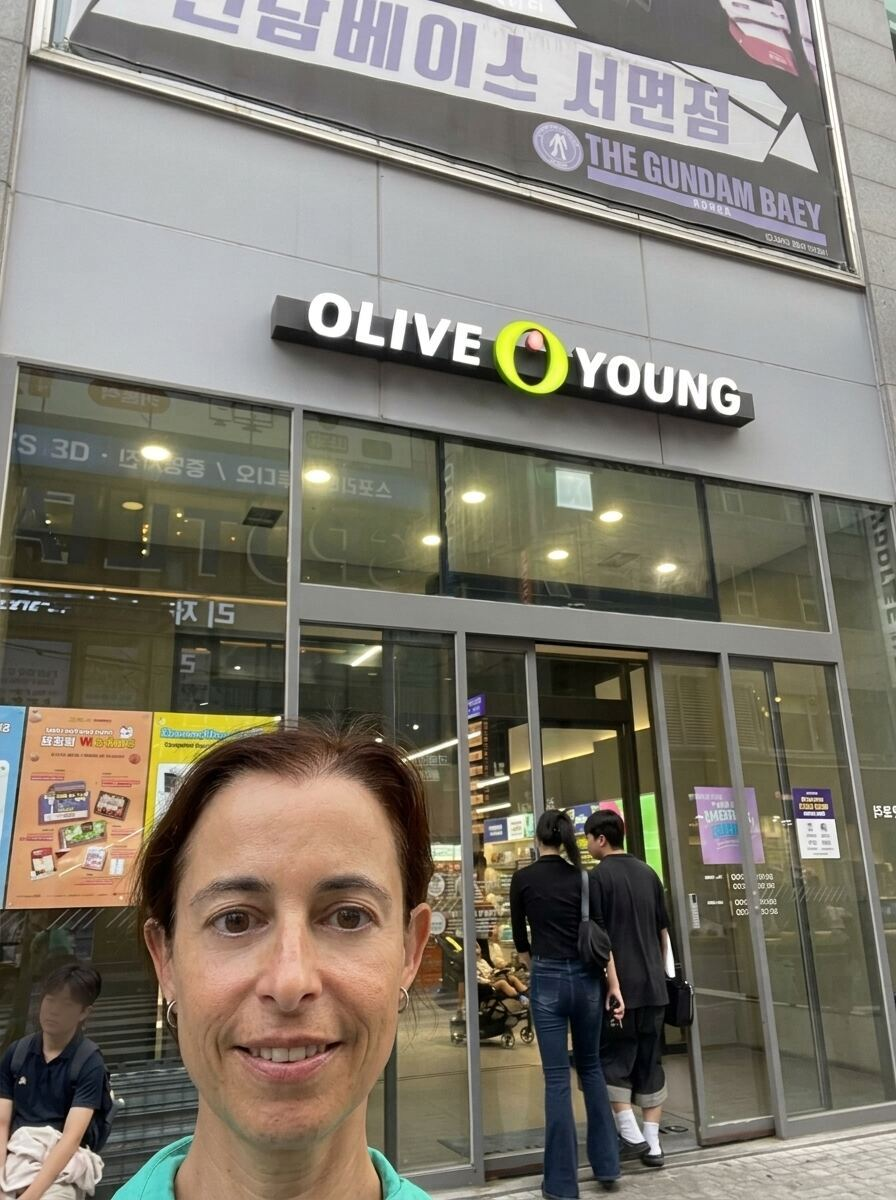
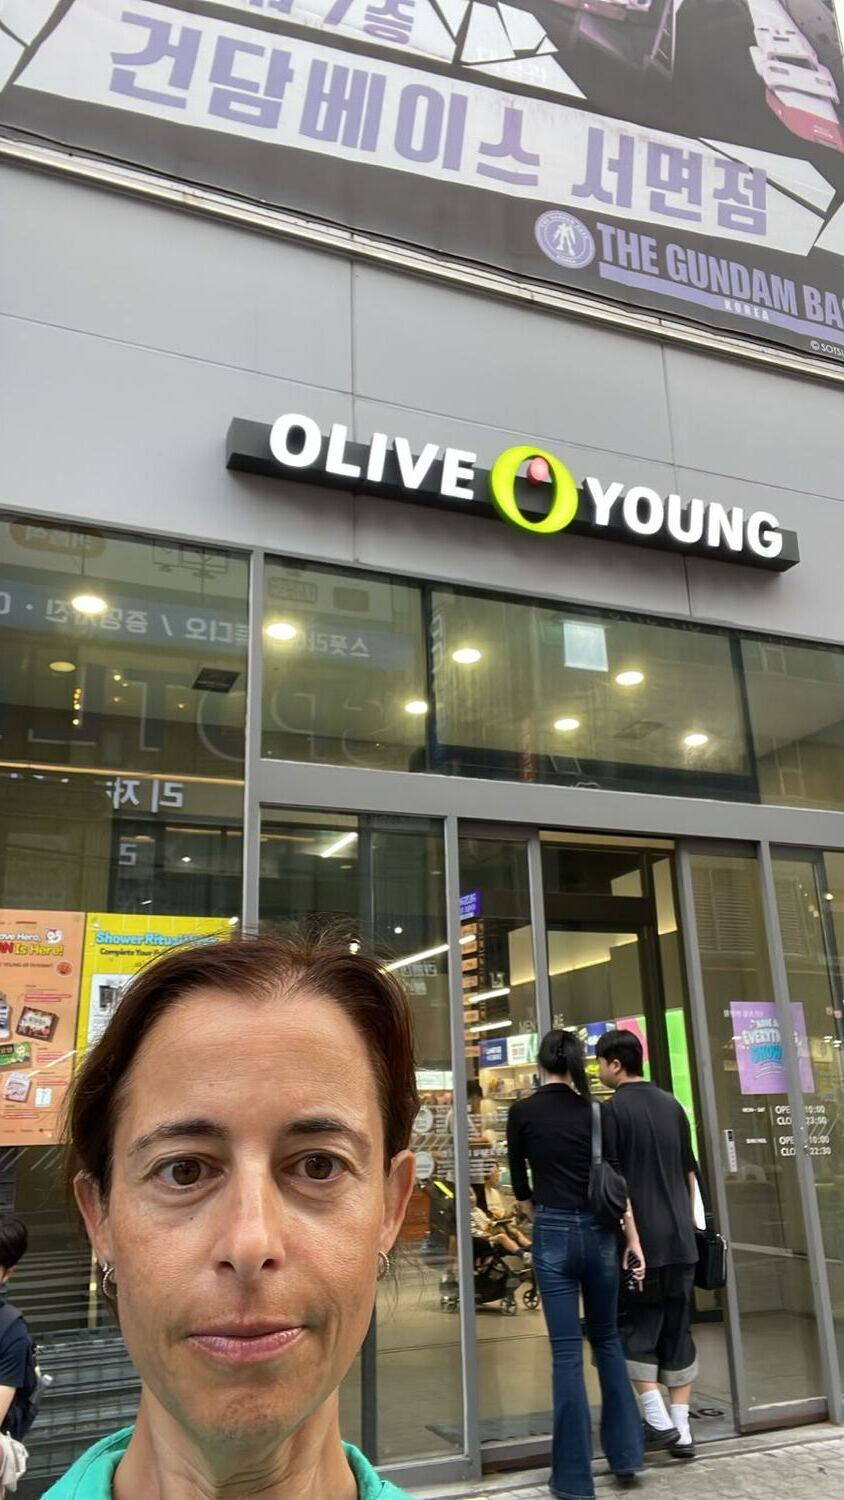
Día 9 completo, cabina por cabina en el día 10 y tres correcciones
El día 9 pasa de 4 a 15 fotos y de «seis cabinas» a siete: a las 10:35 se
sella en 광나루자전거공원, todavía en Seúl, y no estaba en la tabla ni en el
título. Entran Mapo, el carril del Han, el sello del 광나루, 팔당댐 verificada
contra OpenStreetMap, el túnel de ferrocarril, el puente de tablas, el 쉼터 y
su panel de los cuatro ríos, un autorretrato y la cena de Yeoju entera.

Del día 10, una foto por cabina como se pidió: el sello de 강천보 de cerca y
la cabina de 충주탄금대.

Correcciones: la foto de la Olive Young del día 21 era un montaje y se cambia
por la original; el día 18 presumía de unos tubos de cobre que ya salen en los
días 8 y 9; y el día 13 gana la vuelta en solitario a Gumi a por el libro
electrónico, con el hueco de 3 h 39 min medido en el EXIF.

Privacidad (blog.RQ005): mosaico en bloque sobre los ocho teléfonos del panel
del día 9. El autorretrato y la pared de precios se publican diciendo lo que
no se puede verificar en vez de rellenarlo.

diff --git a/CHANGELOG.md b/CHANGELOG.md
@@ -9,11 +9,12 @@ and this project adheres to [Semantic Versioning](https://semver.org/spec/v2.0.0
 
 ### Added
 
-- **Cuarta tanda de fotos** (`blog.RQ010`), **41 más**, para engordar los días
+- **Cuarta tanda de fotos** (`blog.RQ010`), **55 más**, para engordar los días
   que se habían quedado con dos o tres: el día 6 (Suwon y la Torre N) sube de
-  3 a 14, el día 8 (de Seúl al kilómetro 0) de 3 a 12, el día 10 (Yeoju →
+  3 a 14, el día 8 (de Seúl al kilómetro 0) de 3 a 12, el día 9 (del Han a
+  Yeoju) de 4 a 15, el día 10 (Yeoju →
   Chungju) de 2
-  a 8, el día 11 (el puerto de Ihwaryeong) de 3 a 10 y el día 12 (Sangju y el
+  a 10, el día 11 (el puerto de Ihwaryeong) de 3 a 10 y el día 12 (Sangju y el
   principio del Nakdong) de 3 a 11. Entran el paso por
   encima de la presa de 강천보, el **gato azul de 강천섬** —la escultura que se
   queda sin nombre porque el cartel no se lee—, el camino de 탄금대, el cruce
@@ -133,6 +134,37 @@ and this project adheres to [Semantic Versioning](https://semver.org/spec/v2.0.0
   lo que parecía una cara de frente es un cogote. Y se descarta la foto del
   rótulo de la parada de autobús climatizada, que lleva dos teléfonos
   impresos.
+
+  Del día 9 entran once, y con ellas una **corrección de bulto**: el post
+  decía «seis cabinas» en el título, en la tabla y en la ficha, y las fotos
+  demuestran que fueron **siete** — a las 10:35 se sella en
+  **광나루자전거공원**, todavía en Seúl, y faltaba en la lista. Entran las bicis
+  cargadas esperando en una acera de Mapo, el carril del Han bajo un viaducto
+  con su «20» pintado en cada sentido, el sello del 광나루, la presa de
+  **팔당댐** —cuyas coordenadas se comprobaron contra OpenStreetMap: el punto de
+  la foto está a menos de 300 m del muro—, un **túnel de ferrocarril** con
+  doble línea amarilla, el **puente de tablas** de la vía verde, el 쉼터 con su
+  ciclista de hierro, el **panel de los cuatro ríos**, un autorretrato de la
+  tarde y la cena entera de Yeoju: la pared de precios y la mesa con la
+  parrilla en marcha.
+
+  Dos cosas que el día 9 **no** puede dar, y se dicen: **no hay ninguna foto
+  dentro de la cabina de 이포보** —las dos de las 16:22 y las 16:25 son del
+  azud desde la otra orilla—, y el autorretrato llegó por WhatsApp **sin
+  metadatos**, así que el pie no dice dónde se hizo en vez de inventárselo. La
+  pared de precios se publica **sin atribuirla al 목구멍**: la foto no tiene
+  rótulo y su GPS cae a dos kilómetros de la de la mesa, así que se describe lo
+  que se ve y nada más.
+
+  Privacidad del día 9 (`blog.RQ005`): el panel de los cuatro ríos llevaba
+  **ocho teléfonos legibles** —los dos de emergencias y los seis de los
+  talleres de 양평—, mosaicados en bloque. En el resto no hizo falta: en la
+  cabina de 광나루 los únicos coches están lejos y sin matrícula legible, y en
+  la cena solo salimos los tres.
+
+  Del día 10 entran dos **a petición expresa**: faltaba una foto por cabina y
+  había tres cabinas con dos fotos. Ahora están el sello de **강천보** de cerca
+  y la cabina de **충주탄금대**, la que cierra el carril del Namhangang.
 
   Criterio del día 8: no hizo falta difuminar nada (`blog.RQ005`), porque las
   únicas caras son las de los tres y el único tercero es un ciclista de
@@ -487,6 +519,23 @@ and this project adheres to [Semantic Versioning](https://semver.org/spec/v2.0.0
 
 ### Changed
 
+- **La foto de la Olive Young del día 21 se cambia por la original.** La que
+  estaba publicada es un montaje; la buena es la toma de al lado, la misma
+  fachada y sin sonrisa. Se publica desenespejada —las dos llegaron volteadas
+  por la cámara frontal, con el rótulo «OLIVE YOUNG» al revés—, así que ahora
+  el rótulo y la pancarta del 건담베이스 se leen. Nadie reconocible al fondo:
+  las dos personas que entran en la tienda están de espaldas.
+
+- **El día 13 gana la historia del libro electrónico.** En el CU de la presa
+  de 칠곡보, al buscar la cartera, el libro no estaba: se había quedado debajo
+  de la almohada del Sky Motel de Gumi. Vuelta en solitario de **trece
+  kilómetros en línea recta** (más por el carril) y **más de veintiséis** entre
+  ir y volver, mientras los otros dos seguían río abajo. El hueco está medido
+  en las fotos: la última antes de dar media vuelta es de las **10:37** en la
+  cabina y la siguiente de las **14:16** ya río abajo, **3 h 39 min** de
+  agujero. De ahí sale la rutina del resto del viaje: repasar habitación y
+  equipaje dos veces.
+
 - **Dos gates que no miraban donde hacía falta.** `blog.RQ008` comprobaba las
   fechas en la prosa de las entradas, el índice y el `README`, así que una
   página nueva como `mapa.html` entraba sin pasar por ahí: ahora también la
@@ -514,6 +563,15 @@ and this project adheres to [Semantic Versioning](https://semver.org/spec/v2.0.0
   castellano como el resto del repositorio.
 
 ### Fixed
+
+- **Los tubos de cobre del día 18 no eran ninguna novedad.** El post decía que
+  los extractores de cobre labrado eran «algo que no habíamos visto en ningún
+  otro asador del viaje», y lo contradicen sus propias fotos: el del día 8 ya
+  sale en `dia-08-el-tubo-de-cobre.jpg` —hasta en el nombre del archivo— y el
+  del día 9 sale, subiendo desde la propia parrilla, en la cena de Yeoju.
+  Ahora dice lo que de verdad era distinto allí: la cantidad, veinte y pico
+  colgando del techo, y el **disco azul numerado** del arranque de cada uno,
+  que es el número de mesa (se leen el 15, el 16, el 20 y el 21 en la foto).
 
 - **El día 2 llevaba dos fechas escritas.** «Salimos de España el día 22 por
   la mañana y aterrizamos el día 23 por la tarde» fija el calendario del

diff --git a/_posts/2026-10-19-dia-10-de-yeoju-a-chungju-por-el-namhangang.md b/_posts/2026-10-19-dia-10-de-yeoju-a-chungju-por-el-namhangang.md
@@ -38,6 +38,8 @@ río, con su carril bici pintado aparte, y al fondo un mástil blanco curvado
 
 {% include foto.html src="dia-10-cruzando-gangcheonbo.jpg" ancho="844" alto="1500" alt="Carril bici sobre la coronación de una presa, con flechas y rombos pintados en el asfalto y la barandilla metálica a los dos lados; delante, dos ciclistas de espaldas, uno con la bici cargada, y al fondo un mástil blanco curvado con forma de vela y una torre redonda con el remate turquesa." pie="Cruzando 강천보 por encima, dos minutos antes de sellar. El mástil blanco con forma de vela se ve desde mucho antes; la torre redonda de la derecha es el otro remate de la presa." %}
 
+{% include foto.html src="dia-10-sellando-en-gangcheonbo.jpg" ancho="844" alto="1500" alt="Cabina roja de certificación con el cartel azul 강천보 / GANGCHEONBO, con un ciclista de pie dentro sellando el pasaporte, aparcabicis a la izquierda y césped alrededor." pie="강천보 de cerca, a las 09:40. Por dentro todas son iguales: el mapa de la ruta, el sello colgando de su cadenita y un suelo de chapa pisado por media Corea." %}
+
 ### 강천섬, el parque que no esperas
 
 Media hora después de sellar, a las **10:12**, el carril se mete en **강천섬
@@ -65,6 +67,8 @@ cualquiera: ahí **termina el carril del Namhangang y empieza el del Saejae
 
 Dicho de otra forma: hasta aquí has venido siguiendo el agua y en llano. A
 partir de aquí hay que subir.
+
+{% include foto.html src="dia-10-cabina-tangeumdae.jpg" ancho="844" alto="1500" alt="Cabina roja de certificación con el cartel azul 충주탄금대 / CHUNGJU TANGEUMDAE, con un ciclista dentro de pie sellando el pasaporte, otra cabina a la izquierda y el pavimento de adoquín rojo alrededor." pie="충주탄금대, tres minutos antes de la hora que quedó en el sello. Aquí se acaba el carril del Namhangang y empieza el del Saejae: la última cabina en llano." %}
 
 {% include foto.html src="dia-10-camino-de-tangeumdae.jpg" ancho="844" alto="1500" alt="Una de las viajeras caminando por un carril bici de pavimento rojo con la franja verde, con chaqueta gris, pantalón corto negro, gafas de sol y el casco en la mano; detrás, una barandilla azul, el río y la ladera arbolada." pie="탄금대, a las 14:44 en punto: la hora que quedó en el sello. Pavimento rojo con la franja verde, barandilla azul y el Namhangang detrás, despidiéndose." %}
 

diff --git a/_posts/2026-10-19-dia-13-de-gumi-a-daegu-rio-abajo.md b/_posts/2026-10-19-dia-13-de-gumi-a-daegu-rio-abajo.md
@@ -58,6 +58,31 @@ Tres cosas que aprendimos después sobre esta hierba:
   la enfrentó una a una con diecisiete plantas autóctonas y concluyó que **no
   les impide establecerse ni crecer**.
 
+## El libro electrónico debajo de la almohada
+
+En la presa de Chilgok hay un **CU**, y paramos a tomar algo. Fui a buscar la
+cartera en la mochila y, al sacarla, me di cuenta de que **el libro
+electrónico se había quedado en el hotel**. Maldición.
+
+No había discusión posible: los otros dos siguieron río abajo y yo di media
+vuelta **solo**, de vuelta al **Sky Motel de Gumi**, donde habíamos dormido la
+noche anterior. De la cabina al motel hay **trece kilómetros en línea recta**
+—más por el carril—, así que entre ir y volver se me fueron **más de
+veintiséis kilómetros** que no estaban en la etapa.
+
+Las fotos lo dejan medido sin que haga falta contarlo: la última antes de dar
+media vuelta es de las **10:37**, en la cabina, y la siguiente de las
+**14:16**, ya otra vez río abajo. **Tres horas y treinta y nueve minutos** de
+agujero en el día.
+
+Llegué al hotel **justo cuando estaban limpiando mi habitación**. Y el libro
+estaba allí: **debajo de la almohada**, donde lo había dejado la noche
+anterior y donde no se me ocurrió mirar al hacer el equipaje.
+
+Desde ese día, la rutina cambió: **repasar la habitación y el equipaje dos
+veces** antes de salir, siempre. No volvimos a olvidarnos de nada en todo el
+viaje.
+
 ## Daegu, y dos noches en el mismo sitio
 
 A media tarde entramos en **Daegu**, la tercera ciudad de Corea. Después de
@@ -97,5 +122,6 @@ comunicada, con excursiones a mano y mercados que ver.
 ---
 
 **Datos del día** · Gumi → Daegu · 2 cabinas: 칠곡보, 강정고령보 · Lo mejor:
-llegar sabiendo que mañana no se pedalea · Alojamiento: Uneed Hotel, 2 noches,
-336.000 wones · Cena: 51.000 wones · Mañana: día de descanso y templo.
+llegar sabiendo que mañana no se pedalea · Lo peor: volver solo a Gumi a por
+el libro electrónico, más de 26 km de regalo · Alojamiento: Uneed Hotel, 2
+noches, 336.000 wones · Cena: 51.000 wones · Mañana: día de descanso y templo.

diff --git a/_posts/2026-10-19-dia-18-la-meta-el-certificado-y-el-mar.md b/_posts/2026-10-19-dia-18-la-meta-el-certificado-y-el-mar.md
@@ -114,11 +114,15 @@ más.
 
 {% include foto.html src="dia-18-barbacoa-ilimitada.jpg" ancho="844" alto="1500" alt="Dos de los viajeros a una mesa de barbacoa coreana vista desde arriba: en el centro, una parrilla redonda con panceta de cerdo haciéndose, un tubo extractor de cobre bajando del techo justo encima, cuencos de banchan alrededor y una tabla de madera con forma de cerdo; al fondo, el local lleno de gente cenando." pie="La cena de celebración: barbacoa a la carta ilimitada, el tubo de cobre del extractor encima de la parrilla y la tabla con forma de cerdo. El local estaba lleno, y era jueves." %}
 
-Y el sitio tenía algo que no habíamos visto en ningún otro asador del viaje:
-en vez de las campanas de acero de siempre, **tubos extractores de cobre
-labrado** bajando del techo sobre cada parrilla, cada uno con su **disco
-numerado** a media altura. La carne llegaba en una **tabla de madera con la
-silueta de un cerdo**, por si quedaba alguna duda de qué se cenaba.
+Los **tubos extractores de cobre labrado** sobre cada parrilla no eran
+ninguna novedad: los llevábamos viendo desde la primera cena de la ruta, en
+Seúl, y en Yeoju el de nuestra mesa salía de la propia parrilla hacia arriba
+como una chimenea. Lo distinto aquí era la cantidad —**veinte y pico
+bajando del techo**, uno por mesa— y que cada uno llevaba un **disco azul
+numerado** en el arranque, el número de la mesa, que es lo que se ve cuando
+levantas la vista en un asador lleno un jueves por la noche. La carne llegaba
+en una **tabla de madera con la silueta de un cerdo**, por si quedaba alguna
+duda de qué se cenaba.
 
 Después de 633 kilómetros, no se nos ocurrió mejor forma de cerrarlo.
 

diff --git a/_posts/2026-10-19-dia-21-el-dia-de-las-tiendas-daiso-y-olive-young.md b/_posts/2026-10-19-dia-21-el-dia-de-las-tiendas-daiso-y-olive-young.md
@@ -31,7 +31,7 @@ viaje a Corea.
   resolver el problema práctico del final del viaje: **cómo llevarse todo eso
   a casa**.
 
-{% include foto.html src="dia-21-olive-young.jpg" ancho="896" alto="1200" alt="Una de las viajeras, en primer plano y sonriendo, delante de la fachada de una tienda Olive Young de Busan, con el rótulo negro y verde encima de las puertas de cristal y clientes entrando." pie="Una de las Olive Young de Seomyeon, el centro comercial de Busan. La pancarta de arriba es de la tienda del piso superior: 건담베이스 서면점, la del Gundam Base." %}
+{% include foto.html src="dia-21-olive-young.jpg" ancho="844" alto="1500" alt="Una de las viajeras en primer plano, con cara de circunstancias, delante de la fachada de una tienda Olive Young de Busan: el rótulo negro con la O verde encima de las puertas de cristal, dos clientes entrando y la pancarta del Gundam Base en el piso de arriba." pie="Una de las Olive Young de Seomyeon, el centro comercial de Busan. La pancarta de arriba es de la tienda del piso superior: 건담베이스 서면점, la del Gundam Base." %}
 
 La de la foto está en **서면 (Seomyeon)**, que es el barrio donde se concentra
 el comercio en Busan — y por si hacía falta rematar el cuadro, encima de la

diff --git a/_posts/2026-10-19-dia-24-de-madrid-a-casa.md b/_posts/2026-10-19-dia-24-de-madrid-a-casa.md
@@ -24,6 +24,8 @@ ninguna de las dos.
 
 {% include foto.html src="dia-24-al-volante-en-la-a3.jpg" ancho="1031" alto="1500" alt="Las dos manos del conductor en el volante de un Toyota y, por el parabrisas, la autovía, un camión en el carril de al lado, campos secos y una línea de aerogeneradores en el horizonte." pie="La A-3 de vuelta: rastrojo, molinos y un camión. Después de tres semanas de ríos coreanos, la Mancha." %}
 
+{% include foto.html src="dia-24-los-molinos-de-la-mancha.jpg" ancho="1218" alto="700" alt="Vista por la ventanilla del coche en la A-3: una fila de aerogeneradores sobre una loma de monte bajo, naves y casas al pie, campos de rastrojo en primer plano y la bionda de la autovía cruzando la foto." pie="Los molinos, unos segundos después y sin el volante por medio: la fila entera en la loma, el rastrojo delante y la bionda. Esto es lo que hay a mitad de camino entre Madrid y casa." %}
+
 ## El almuerzo: la barbacoa española
 
 A mitad de camino, a las **13:15**, paramos a comer en el **restaurante
